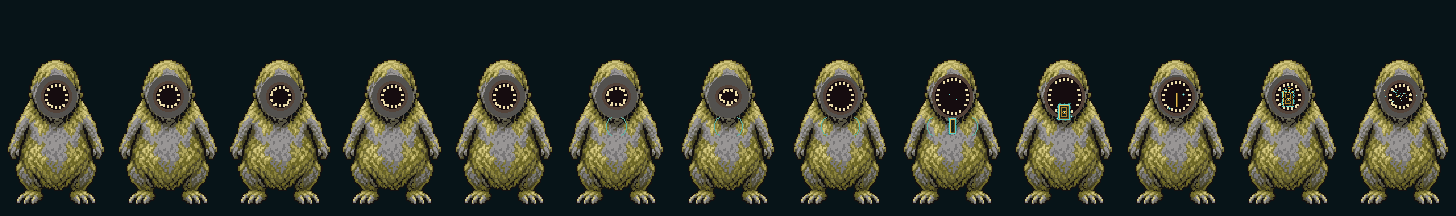
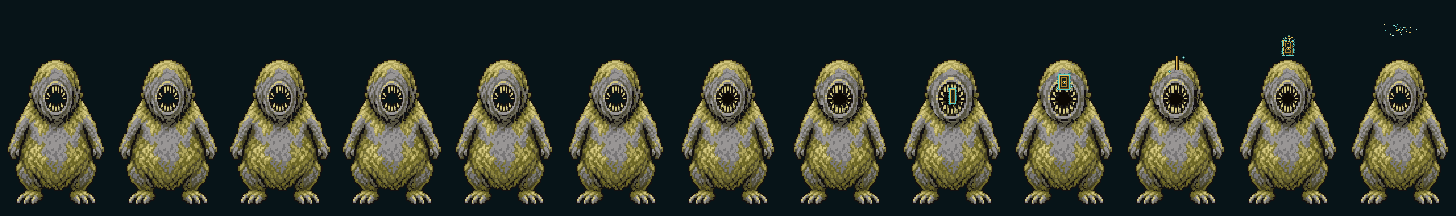
Make Spawn vomit the shared card above its head

diff --git a/tools/build_spawn_sheets.py b/tools/build_spawn_sheets.py
@@ -15,9 +15,6 @@ PIXELS = ROOT / "art/pixel/enemies_px"
 SOURCE = PIXELS / "source/spawn"
 W, H, TOP, FRAMES, FIRE = 112, 168, 48, 13, 8
 INK = (19, 16, 17, 255)
-RIM = (84, 67, 57, 255)
-TOOTH = (235, 220, 170, 255)
-THROAT = (21, 12, 15, 255)
 
 
 def native_base() -> Image.Image:
@@ -79,48 +76,37 @@ def belly_pose(base: Image.Image, breathe: int, crouch: int) -> Image.Image:
     return result
 
 
-def maw(image: Image.Image, radius_x: int, radius_y: int, glint: bool) -> None:
-    """Redraw the front-facing mouth at each key pose, including its teeth."""
-    draw = ImageDraw.Draw(image)
-    cx, cy = 56, 48
-    # A dark gray face plate covers the source mouth; the rim and teeth are
-    # then repainted at the intended opening, not stretched from old pixels.
-    draw.ellipse((cx - 20, cy - 21, cx + 20, cy + 21), fill=(83, 81, 78, 255))
-    draw.ellipse((cx - radius_x - 3, cy - radius_y - 3,
-                  cx + radius_x + 3, cy + radius_y + 3), fill=RIM)
-    draw.ellipse((cx - radius_x, cy - radius_y,
-                  cx + radius_x, cy + radius_y), fill=THROAT)
-    # Radial tooth pairs remain individually readable at native resolution.
-    for dx in (-9, -5, -1, 3, 7):
-        yy = round(radius_y * (1.0 - (dx / max(1, radius_x)) ** 2) ** 0.5)
-        for side in (-1, 1):
-            y = cy + side * max(2, yy - 1)
-            draw.rectangle((cx + dx, y - (2 if side > 0 else 0),
-                            cx + dx + 1, y + (2 if side < 0 else 0)), fill=TOOTH)
-    for side in (-1, 1):
-        for dy in (-7, -2, 3, 8):
-            xx = round(radius_x * (1.0 - (dy / max(1, radius_y)) ** 2) ** 0.5)
-            x = cx + side * max(2, xx - 1)
-            draw.rectangle((x - (2 if side > 0 else 0), cy + dy,
-                            x + (2 if side < 0 else 0), cy + dy + 1), fill=TOOTH)
-    if glint:
-        draw.point((cx - 3, cy - 2), fill=(109, 224, 207, 255))
-        draw.point((cx + 4, cy + 3), fill=(109, 224, 207, 255))
+def open_maw(image: Image.Image, base: Image.Image, extra: int) -> None:
+    """Open the existing shaded mouth without replacing its rim or teeth."""
+    if not extra:
+        return
+    # The oval includes the original cheek and tooth shading. Masking its
+    # outer edge avoids the rectangular cut-out visible in a scaled patch.
+    left, top, right, bottom = 37, 27, 76, 70
+    patch = base.crop((left, top, right, bottom))
+    width, height = patch.size
+    enlarged = patch.resize((width + extra * 2, height + extra * 2),
+                            Image.Resampling.NEAREST)
+    mask = Image.new("L", enlarged.size)
+    ImageDraw.Draw(mask).ellipse((1, 1, enlarged.width - 2,
+                                 enlarged.height - 2), fill=255)
+    enlarged.putalpha(mask)
+    image.alpha_composite(enlarged,
+                          (left - extra, top - extra))
 
 
 def effect(frame: int, shared: Image.Image) -> Image.Image:
     fx = Image.new("RGBA", (W, H + TOP))
     draw = ImageDraw.Draw(fx)
-    cy = TOP + 78
-    if 5 <= frame <= 8:
-        # The individual wind-up is a brief pressure ripple from the maw to
-        # the chest. The card itself is always the existing shared art.
-        extent = {5: 4, 6: 8, 7: 13, 8: 19}[frame]
-        for side in (-1, 1):
-            x = 56 + side * extent
-            draw.arc((x - 6, cy - 9, x + 6, cy + 9),
-                     100 if side < 0 else 280, 260 if side < 0 else 80,
-                     fill=(94, 181, 166, 255), width=1)
+    cy = TOP + 49
+    if 6 <= frame <= 8:
+        # Short, uneven spit trails connect the mouth to the shared card.
+        # They inherit the monster's olive color, so the gold/teal card
+        # remains the same visual signal as every other pixel enemy.
+        length = {6: 2, 7: 4, 8: 7}[frame]
+        for x, offset in ((51, 0), (57, 2), (62, -1)):
+            draw.line((x, cy + 8, x + offset, cy + 8 + length),
+                      fill=(143, 139, 77, 255), width=1)
     if FIRE <= frame <= FIRE + 4:
         source_index = frame - FIRE + 5  # Exact fanatic card frames 5..9.
         card = shared.crop((source_index * 96, 0,
@@ -128,7 +114,7 @@ def effect(frame: int, shared: Image.Image) -> Image.Image:
         bounds = card.getbbox()
         if bounds:
             card = card.crop(bounds)
-            center_y = {8: 126, 9: 112, 10: 101, 11: 96, 12: 96}[frame]
+            center_y = {8: 96, 9: 82, 10: 64, 11: 45, 12: 30}[frame]
             fx.alpha_composite(card, (56 - card.width // 2,
                                       center_y - card.height // 2))
     return fx
@@ -140,15 +126,13 @@ def main() -> None:
     # Two uneven breaths, then a held compression before the mouth snaps open.
     breaths = [0, 1, 2, 1, 0, 0, 0, 0, 0, 0, 0, 0, 0]
     crouches = [0, 0, 0, 0, 0, 1, 2, 2, 0, 0, 0, 0, 0]
-    openings = [(12, 13), (12, 12), (11, 11), (12, 12),
-                (12, 13), (11, 10), (10, 8), (14, 15),
-                (17, 19), (17, 19), (15, 16), (13, 14), (12, 13)]
+    openings = [0, 0, 0, 0, 0, 0, 1, 3, 5, 5, 3, 1, 0]
     body_sheet = Image.new("RGBA", (W * FRAMES, H))
     fx_sheet = Image.new("RGBA", (W * FRAMES, H + TOP))
     previews = []
     for frame in range(FRAMES):
         body = belly_pose(base, breaths[frame], crouches[frame])
-        maw(body, *openings[frame], glint=frame == FIRE)
+        open_maw(body, base, openings[frame])
         body_sheet.alpha_composite(body, (frame * W, 0))
         vfx = effect(frame, shared)
         fx_sheet.alpha_composite(vfx, (frame * W, 0))
